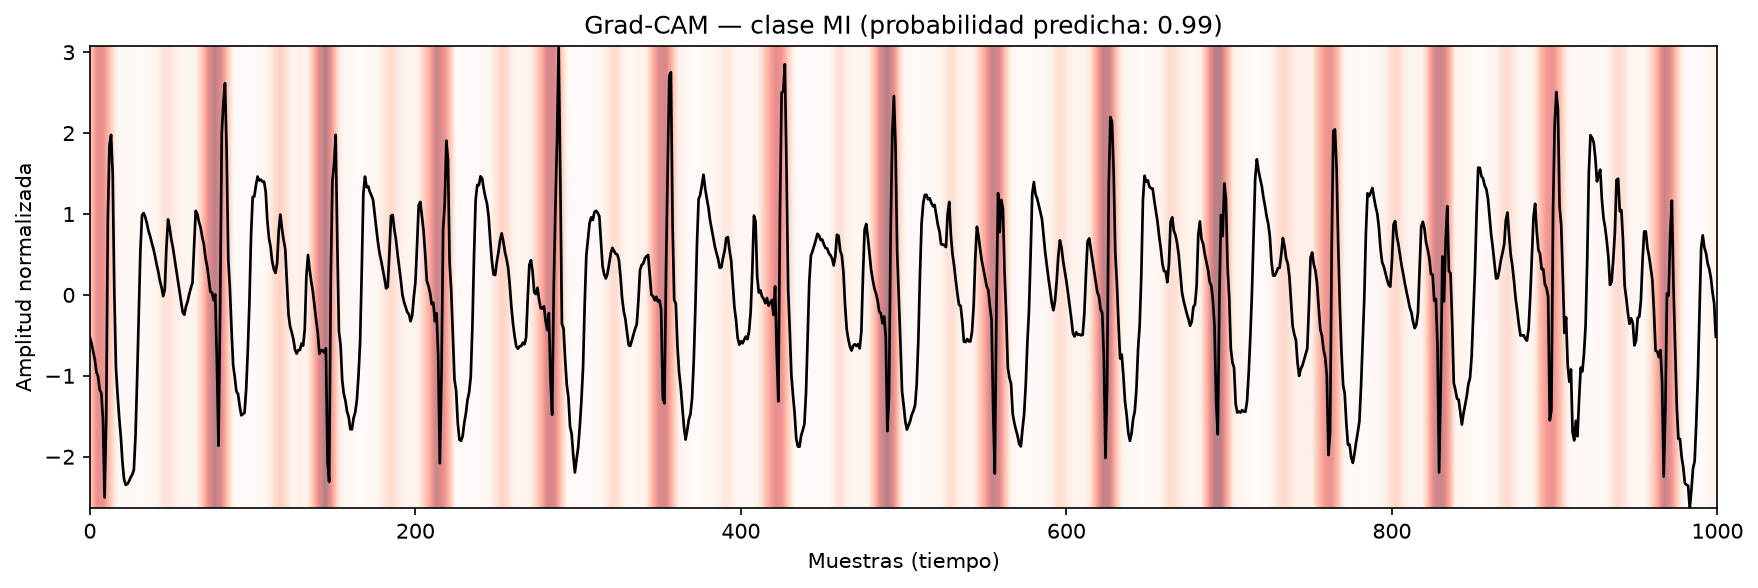
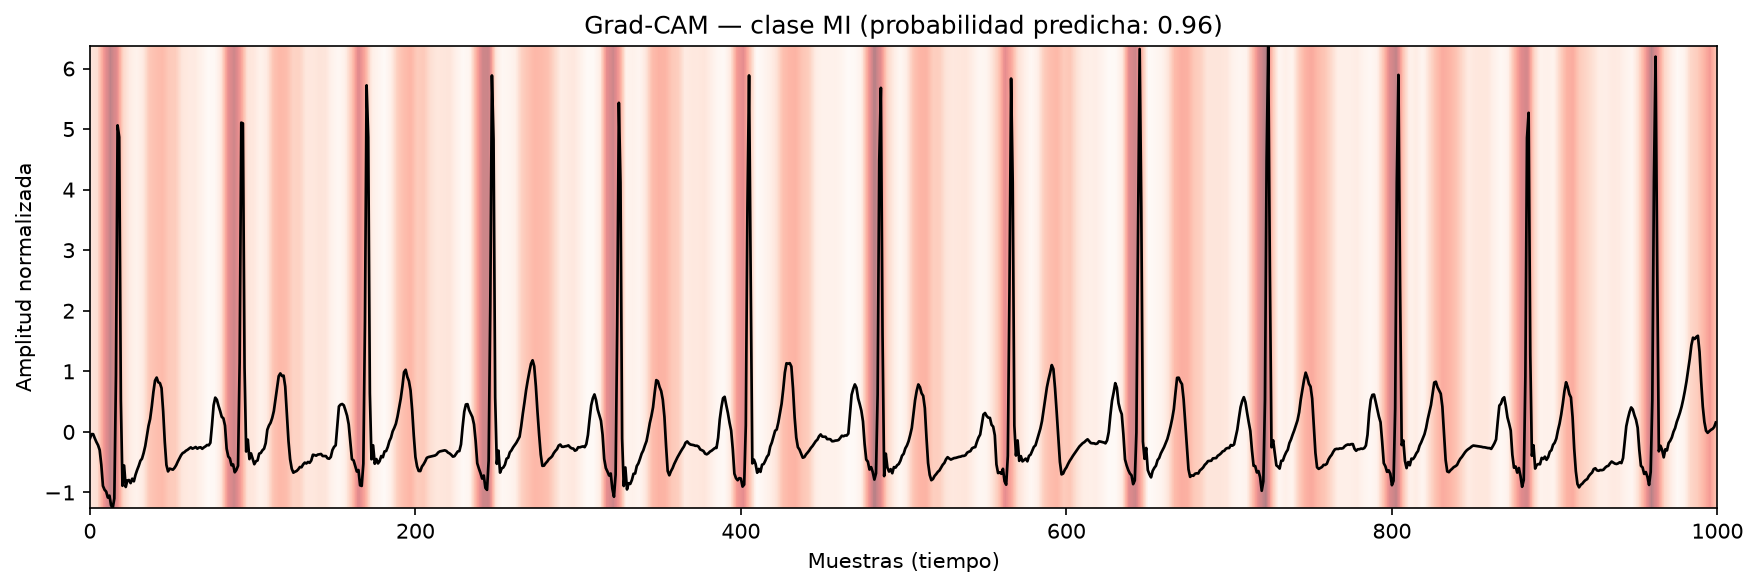
Calibramos el umbral de HYP para mejorar su diagnastico, con aclaraciones en Readme

diff --git a/README.md b/README.md
@@ -395,7 +395,47 @@ con solo las dependencias que la API necesita, e instalando PyTorch en un
 paso separado del `Dockerfile`, indicando explícitamente su índice.
 
 
-## Estructura del repositorio
+### Optimización del umbral de decisión para HYP
+
+Con el umbral por defecto (0,5), el recall de HYP era muy bajo (13,4% en
+test), pese a que su AUROC (0,840) mostraba que el modelo sí tenía
+información útil sobre esta clase — el problema no era el modelo, sino
+un umbral de decisión mal calibrado para una clase tan minoritaria.
+
+Se exploró el efecto de mover el umbral de decisión sobre el conjunto de
+**validación** (nunca sobre test, para no sesgar la elección):
+
+|      Umbral        | Recall (val) | Precisión (val) |
+|--------------------|--------------|-----------------|
+| 0,50 (por defecto) |      9,7%    |       83,9%     |
+| 0,40               |      29,2%   |       63,9%     |
+| 0,30               |      58,4%   |       41,4%     |
+| **0,263**          |    **74,5%** |       **—**     |
+| 0,20               |      89,1%   |       21,6%     |
+| 0,15               |      97,4%   |       16,9%     |
+
+![Elección del umbral para HYP](assets/umbral_hyp.png)
+
+El estadístico de Youden (que busca el punto de equilibrio matemático
+entre sensibilidad y especificidad) señala 0,263 como umbral recomendado.
+Validado en el conjunto de **test** (que no participó en la elección):
+
+|         Umbral         | Recall (test) | Precisión (test) |
+|------------------------|---------------|------------------|
+| 0,50 (por defecto)     |     13,4%     |        81,4%     |
+| 0,263 (optimizado)     |     72,1%     |        30,4%     |
+
+Este ajuste representa un compromiso técnico y no una mejora automática sin consecuencias. 
+
+Al bajar el umbral de decisión, logramos multiplicar por más de cinco la capacidad de detectar casos reales de la enfermedad (HYP). El beneficio directo es que aumentamos el recall (sensibilidad), lo que garantiza que es mejor tener falsos positivos que falsos negativos, ya que así evitamos pasar por alto a un paciente enfermo. La consecuencia de esta estrategia es que la mayoría de las alertas positivas serán falsas alarmas, reduciendo la precisión al 30%.
+
+El umbral óptimo a elegir depende estrictamente del contexto clínico:
+
+* **Cribado poblacional**: Si el sistema se usa para una detección masiva seguida de la revisión de un médico, es totalmente razonable priorizar el recall para no perder ningún caso.
+* **Acciones automáticas**: Si el sistema activa directamente tratamientos o procedimientos médicos costosos, un umbral intermedio (como 0.35 - 0.40) es una opción más prudente.
+
+Para ofrecer total flexibilidad, la API entrega la probabilidad cruda (el porcentaje directo de sospecha) sin aplicar ningún filtro previo. De esta manera, la responsabilidad y la decisión final del umbral quedan en manos del equipo médico o técnico que integre la herramienta en el flujo clínico real.
+
 
 ## Estructura del repositorio
 